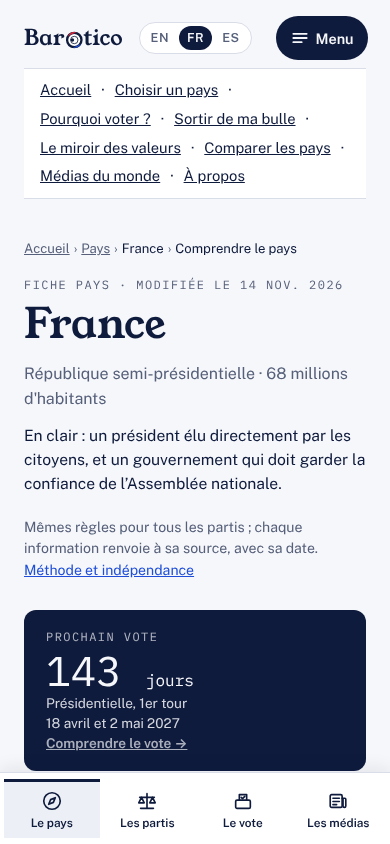
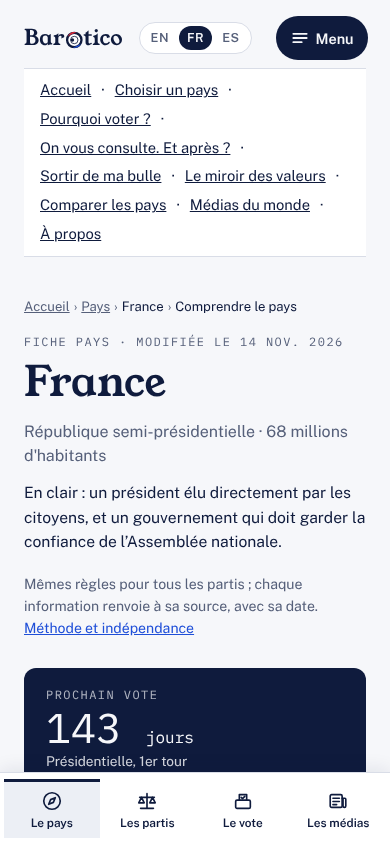
V2: Belgium/Spain keys in V2LOC
Claude-Session: https://claude.ai/code/session_01K5LCGpnwcfb3aHx3gftasX

diff --git a/main.js b/main.js
@@ -2111,7 +2111,7 @@ function v2on(k){return V2&&lang==="fr"&&(k===undefined||V2_COUNTRIES==="all"||(
    homeMirror / homeReprendre / homeVoter: blocks removed from the French home (each has its own page) · satisfaction: duplicate tile in key figures. */
 const HIDE={watch:WATCH_OFF,follow:true,cguide:true,homeMirror:true,homeReprendre:true,homeVoter:true,satisfaction:FIG2};
 /* French preposition + name, for « Qui décide en France ? », « Prochaines échéances au Brésil ». */
-const V2LOC={france:"en France",spain:"en Espagne",belgium:"en Belgique",argentina:"en Argentine",australia:"en Australie",austria:"en Autriche",azerbaijan:"en Azerbaïdjan",belarus:"en Biélorussie",benin:"au Bénin",brazil:"au Brésil",china:"en Chine",colombia:"en Colombie",czechia:"en Tchéquie",drcongo:"en RD Congo",egypt:"en Égypte",germany:"en Allemagne",greece:"en Grèce",hungary:"en Hongrie",indonesia:"en Indonésie",ireland:"en Irlande",italy:"en Italie",morocco:"au Maroc",netherlands:"aux Pays-Bas",newzealand:"en Nouvelle-Zélande",northkorea:"en Corée du Nord",poland:"en Pologne",portugal:"au Portugal",romania:"en Roumanie",russia:"en Russie",senegal:"au Sénégal",serbia:"en Serbie",singapore:"à Singapour",southafrica:"en Afrique du Sud",southkorea:"en Corée du Sud",sweden:"en Suède",switzerland:"en Suisse",thailand:"en Thaïlande",tunisia:"en Tunisie",turkey:"en Turquie",uk:"au Royaume-Uni",ukraine:"en Ukraine",usa:"aux États-Unis",venezuela:"au Venezuela",vietnam:"au Vietnam",israel:"en Israël"};
+const V2LOC={france:"en France",spain:"en Espagne",espagne:"en Espagne",belgium:"en Belgique",belgique:"en Belgique",argentina:"en Argentine",australia:"en Australie",austria:"en Autriche",azerbaijan:"en Azerbaïdjan",belarus:"en Biélorussie",benin:"au Bénin",brazil:"au Brésil",china:"en Chine",colombia:"en Colombie",czechia:"en Tchéquie",drcongo:"en RD Congo",egypt:"en Égypte",germany:"en Allemagne",greece:"en Grèce",hungary:"en Hongrie",indonesia:"en Indonésie",ireland:"en Irlande",italy:"en Italie",morocco:"au Maroc",netherlands:"aux Pays-Bas",newzealand:"en Nouvelle-Zélande",northkorea:"en Corée du Nord",poland:"en Pologne",portugal:"au Portugal",romania:"en Roumanie",russia:"en Russie",senegal:"au Sénégal",serbia:"en Serbie",singapore:"à Singapour",southafrica:"en Afrique du Sud",southkorea:"en Corée du Sud",sweden:"en Suède",switzerland:"en Suisse",thailand:"en Thaïlande",tunisia:"en Tunisie",turkey:"en Turquie",uk:"au Royaume-Uni",ukraine:"en Ukraine",usa:"aux États-Unis",venezuela:"au Venezuela",vietnam:"au Vietnam",israel:"en Israël"};
 function v2Loc(k){return V2LOC[k]||("· "+tr((C[k]||{}).name||k))}
 let V2K="france";
 const V2I={

diff --git a/tools/v2/prod.py b/tools/v2/prod.py
@@ -4,7 +4,7 @@ async def main():
   async with async_playwright() as p:
     b=await p.chromium.launch();pg=await b.new_page();errs=[]
     pg.on("pageerror",lambda e:errs.append(str(e)[:120]))
-    for u in ["/fr/","/fr/france/","/fr/france/parties/","/fr/values-mirror/","/fr/spain/","/fr/germany/parties/","/fr/brazil/vote/","/fr/north-korea/","/en/","/en/france/","/es/","/fr/why-vote/"]:
+    for u in ["/fr/","/fr/france/","/fr/france/parties/","/fr/values-mirror/","/fr/spain/","/fr/germany/parties/","/fr/brazil/vote/","/fr/north-korea/","/fr/after-the-vote/","/fr/belgium/","/fr/russia/parties/","/en/","/en/france/","/es/","/fr/why-vote/"]:
       r=await pg.goto("http://127.0.0.2:8766"+u);await pg.wait_for_timeout(900)
       print(u,r.status,await pg.evaluate("[!!document.querySelector('.v2-ribbon'),!!document.querySelector('footer.v2foot'),!!document.querySelector('.v2wrap'),document.title.slice(0,50)]"))
     print("errors",errs);await b.close()
